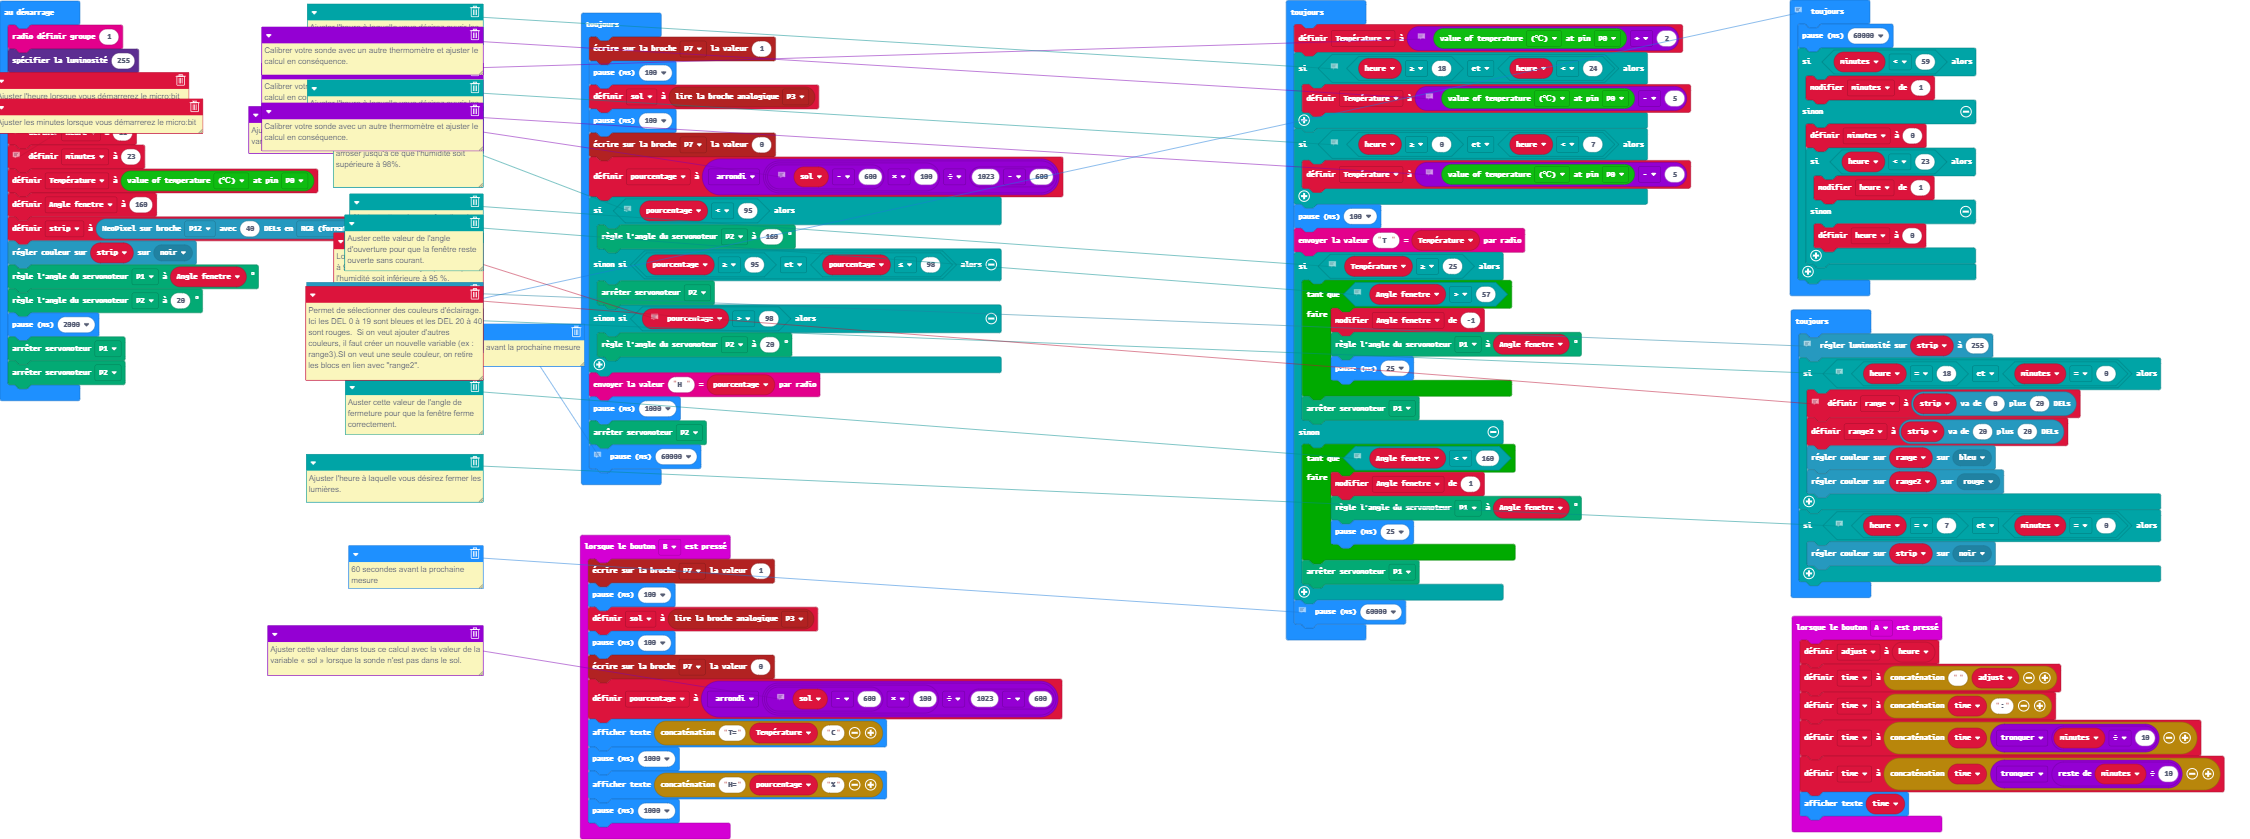
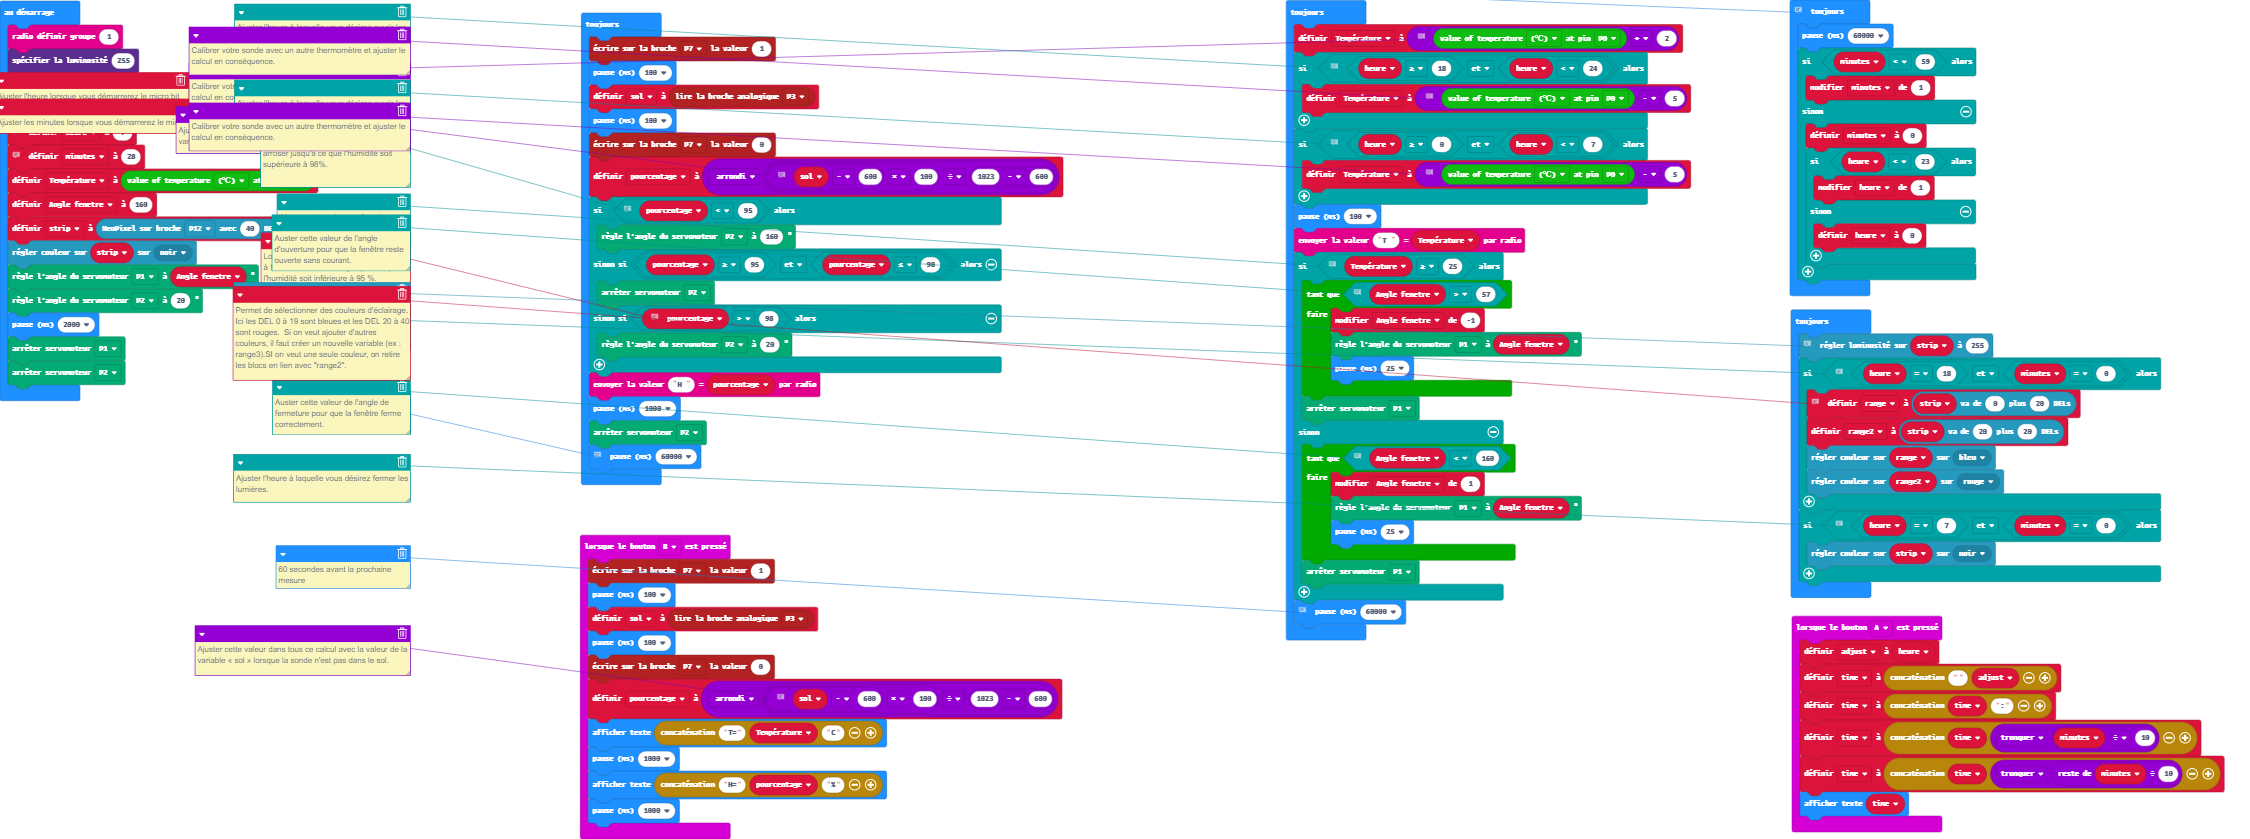
Mise à jour main.blocks, main.ts

diff --git a/main.ts b/main.ts
@@ -33,9 +33,9 @@ led.setBrightness(255)
 time = ""
 adjust = 0
 // Ajuster l'heure lorsque vous démarrerez le micro:bit
-heure = 11
+heure = 7
 // Ajuster les minutes lorsque vous démarrerez le micro:bit
-minutes = 23
+minutes = 28
 Température = smarthome.ReadTemperature(TMP36Type.TMP36_temperature_C, AnalogPin.P0)
 let Angle_fenetre = 160
 let strip = neopixel.create(DigitalPin.P12, 40, NeoPixelMode.RGB)
